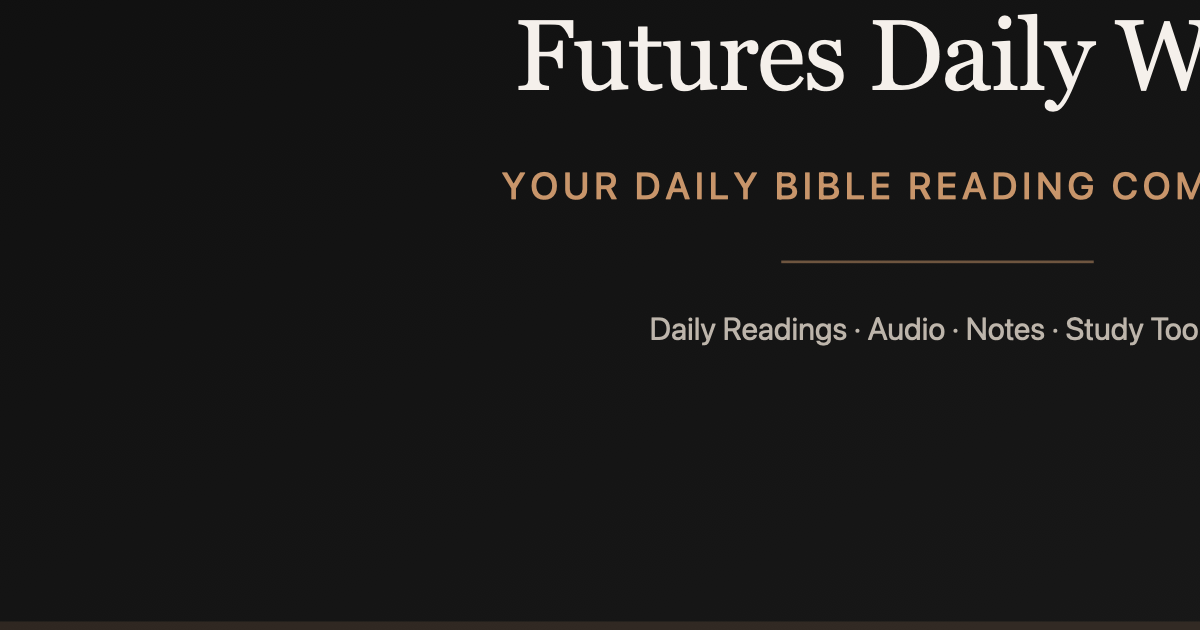
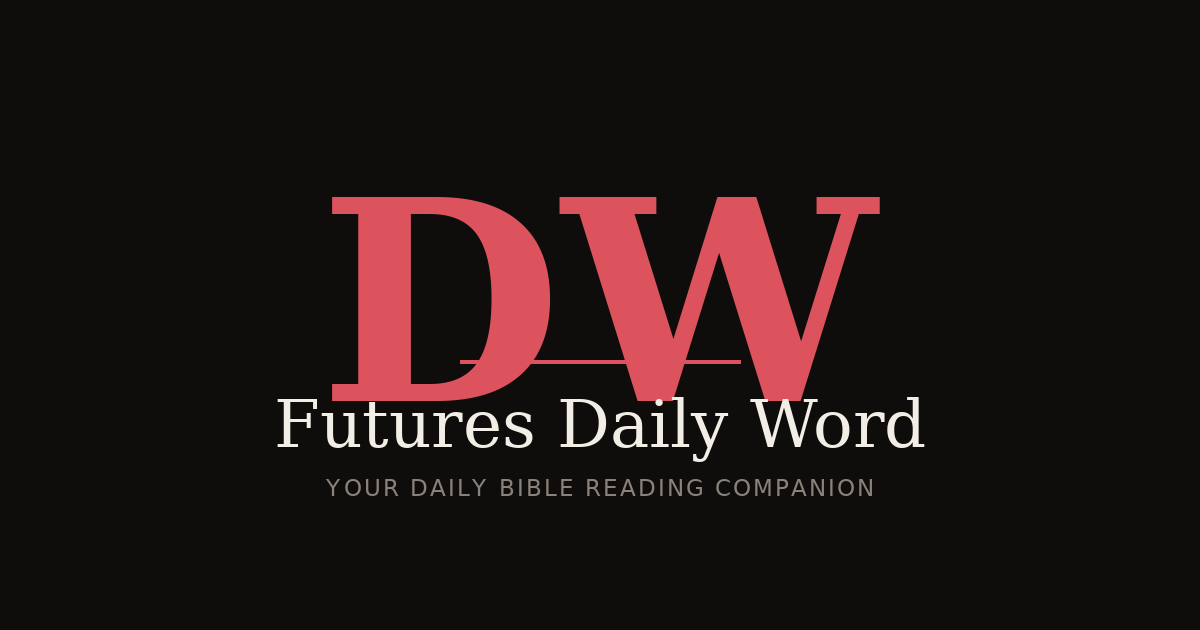
Fix OG thumbnail: add DW initials with site brand colours
Replaces the broken/cropped og-image.png with a clean 1200×630
thumbnail featuring:
- Large bold "DW" in the site accent red (#DC535D)
- "Futures Daily Word" in cream (#F2EDE5)
- "YOUR DAILY BIBLE READING COMPANION" in muted text (#8A827A)
- Site dark-charcoal background (#0F0D0B)

Also adds tools/generate-og-image.py for future re-generation.

https://claude.ai/code/session_01JmMkMJkyAPntkr9W83vV1j

diff --git a/tools/generate-og-image.py b/tools/generate-og-image.py
@@ -1,0 +1,102 @@
+#!/usr/bin/env python3
+"""
+Generate the OG thumbnail for futuresdailyword.com.
+Run from the repo root: python3 tools/generate-og-image.py
+Output: public/og-image.png (1200x630)
+"""
+
+import os
+from PIL import Image, ImageDraw, ImageFont
+
+# ----- Canvas & colours (match site dark-mode theme) -----
+W, H = 1200, 630
+BG      = (15, 13, 11)        # #0F0D0B
+RED     = (220, 83, 93)        # #DC535D  accent
+CREAM   = (242, 237, 229)      # #F2EDE5  primary text
+MUTED   = (138, 130, 122)      # #8A827A  secondary text
+BORDER  = (46, 42, 37)         # #2E2A25
+
+# ----- Fonts -----
+SERIF_BOLD = '/usr/share/fonts/truetype/dejavu/DejaVuSerif-Bold.ttf'
+SERIF      = '/usr/share/fonts/truetype/dejavu/DejaVuSerif.ttf'
+SANS       = '/usr/share/fonts/truetype/dejavu/DejaVuSans.ttf'
+
+font_dw    = ImageFont.truetype(SERIF_BOLD, 280)
+font_title = ImageFont.truetype(SERIF,      66)
+font_sub   = ImageFont.truetype(SANS,       23)
+
+# ----- Layout helpers -----
+def centered_x(draw, text, font, canvas_w=W):
+    bbox = draw.textbbox((0, 0), text, font=font)
+    text_w = bbox[2] - bbox[0]
+    return (canvas_w - text_w) // 2 - bbox[0]
+
+def text_height(draw, text, font):
+    bbox = draw.textbbox((0, 0), text, font=font)
+    return bbox[3] - bbox[1]
+
+def draw_spaced_text(draw, xy, text, font, fill, spacing=3):
+    """Draw text with extra letter-spacing."""
+    x, y = xy
+    for ch in text:
+        draw.text((x, y), ch, font=font, fill=fill)
+        bbox = draw.textbbox((0, 0), ch, font=font)
+        x += (bbox[2] - bbox[0]) + spacing
+
+def spaced_text_width(draw, text, font, spacing=3):
+    total = 0
+    for i, ch in enumerate(text):
+        bbox = draw.textbbox((0, 0), ch, font=font)
+        total += (bbox[2] - bbox[0])
+        if i < len(text) - 1:
+            total += spacing
+    return total
+
+# ----- Build image -----
+img  = Image.new('RGB', (W, H), BG)
+draw = ImageDraw.Draw(img)
+
+# Compute content block height to centre it vertically
+DW_TEXT    = 'DW'
+TITLE_TEXT = 'Futures Daily Word'
+SUB_TEXT   = 'YOUR DAILY BIBLE READING COMPANION'
+
+dw_h     = text_height(draw, DW_TEXT,    font_dw)
+title_h  = text_height(draw, TITLE_TEXT, font_title)
+sub_h    = text_height(draw, SUB_TEXT,   font_sub)
+
+GAP_1 = 18   # between DW and accent line
+LINE_H = 3   # accent line height
+GAP_2 = 22   # between accent line and title
+GAP_3 = 24   # between title and subtitle
+
+total_h = dw_h + GAP_1 + LINE_H + GAP_2 + title_h + GAP_3 + sub_h
+top = (H - total_h) // 2
+
+# 1. Large "DW" in accent red
+y = top
+x = centered_x(draw, DW_TEXT, font_dw)
+draw.text((x, y), DW_TEXT, font=font_dw, fill=RED)
+y += dw_h + GAP_1
+
+# 2. Thin red accent line
+line_x1 = W // 2 - 140
+line_x2 = W // 2 + 140
+draw.rectangle([line_x1, y, line_x2, y + LINE_H], fill=RED)
+y += LINE_H + GAP_2
+
+# 3. "Futures Daily Word" in cream
+x = centered_x(draw, TITLE_TEXT, font_title)
+draw.text((x, y), TITLE_TEXT, font=font_title, fill=CREAM)
+y += title_h + GAP_3
+
+# 4. Subtitle in muted with slight letter-spacing
+sub_w = spaced_text_width(draw, SUB_TEXT, font_sub, spacing=2)
+sub_x = (W - sub_w) // 2
+draw_spaced_text(draw, (sub_x, y), SUB_TEXT, font_sub, fill=MUTED, spacing=2)
+
+# ----- Save -----
+out_path = os.path.join(os.path.dirname(__file__), '..', 'public', 'og-image.png')
+out_path = os.path.normpath(out_path)
+img.save(out_path, 'PNG', optimize=True)
+print(f"Saved {out_path}  ({W}x{H})")
